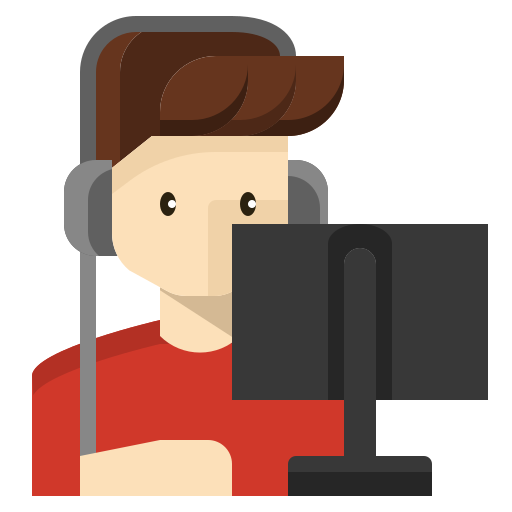
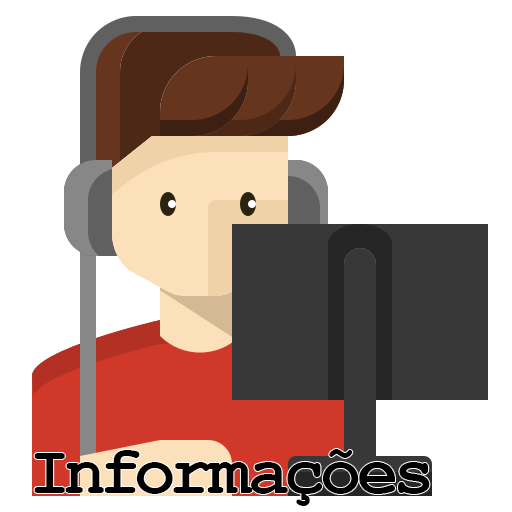
99%

Changed region(s): [[0.0625, 0.875, 0.8438, 1.0]]

diff --git a/public/css/styleSobre.css b/public/css/styleSobre.css
@@ -15,7 +15,7 @@
     position: absolute;
     left: 50%;
     top: 50%;
-    width: 40vw;
+    width: 750px;
     transform: translate(-50%, -50%);
     pointer-events: none;
     transition: 0.5s;
@@ -40,24 +40,6 @@
     opacity: 1;
     visibility: visible;
 }
-.card .vertical {
-    z-index: 1;
-    position: relative;
-    font: 400 4.5vw/11vh 'Courier Prime', monospace;
-    width: 1px;
-    left: 5.5%;
-    top: 17.6vw;
-    color: black;
-    text-shadow: none;
-    transition: 0.5s;
-}
-.card:hover .vertical {
-    opacity: 0;
-    font: 400 1.1vw/11vh 'Courier Prime', monospace;
-    left: -9.2vw;
-    top: -3.5vw;
-}
-
 @media screen and (max-width: 1024px) {
     .card {
         width: 80vw;
@@ -72,17 +54,6 @@
         top: -7.5%;
         left: 11%;
         width: 10vw;
-    }
-    .card .vertical {
-        font: 400 9vw/11vh 'Courier Prime', monospace;
-        width: 1px;
-        left: 5.5%;
-        top: 35.5vw;
-    }
-    .card:hover .vertical {
-        font: 400 1.1vw/11vh 'Courier Prime', monospace;
-        left: -9.2vw;
-        top: -3.5vw;
     }
     #p1 {
         font: 400 5vw 'Courier Prime', monospace;

diff --git a/public/css/style.css b/public/css/style.css
@@ -6,8 +6,8 @@
     height: 200px;
 }
 body {
-    background-attachment: fixed;
-    background-size: 131%;
+    background: rgb(0,0,0);
+    background: linear-gradient(142deg, rgba(0,0,0,1) 0%, rgba(32,32,32,1) 16%, rgba(0,0,0,1) 33%, rgba(32,32,32,1) 49%, rgba(0,0,0,1) 66%, rgba(32,32,32,1) 83%, rgba(0,0,0,1) 100%);
     color: white;
     text-decoration: none;
 }
@@ -23,7 +23,7 @@ header {
     background: #9022C3;
     box-shadow: 0px 7px 9px 1px rgba(0, 0, 0, 0.3);
     text-shadow: 3px 3px 3px rgba(0, 0, 0, 0.603);
-    font: 400 25px/20px 'Courier Prime', monospace;
+    font: 400 1vw/20px 'Courier Prime', monospace;
 }
 #logoimg {
     height: 5vh;
@@ -85,10 +85,6 @@ footer #copyright {
 
 
 @media screen and (max-width: 1024px) {
-    body {
-        background-image: url("/public/images/backgroundvertical.jpg");
-        background-size: 100%;
-    }
     .titulos {
         font: 400 7vw 'Courier Prime', monospace;
     }

diff --git a/index.html b/index.html
@@ -16,7 +16,7 @@
     <script src="/public/script/mobile-navbar.js" defer></script>
     <script src="/public/script/landingpage.js" defer></script>
 </head>
-<body background="/public/images/backgroundhorizontal.jpg">
+<body">
     <header>
         <div id="logo">
             <img id="logoimg" src="/public/images/logo.svg" alt="">
@@ -49,7 +49,6 @@
                 </p>
             </div>
             <div class="card">
-                <p class="vertical">INFORMAÇÕES</p>
                 <img src="/public/images/jogador.png" alt="">
                 <div class="content">
                     <ul id="informacoes">
